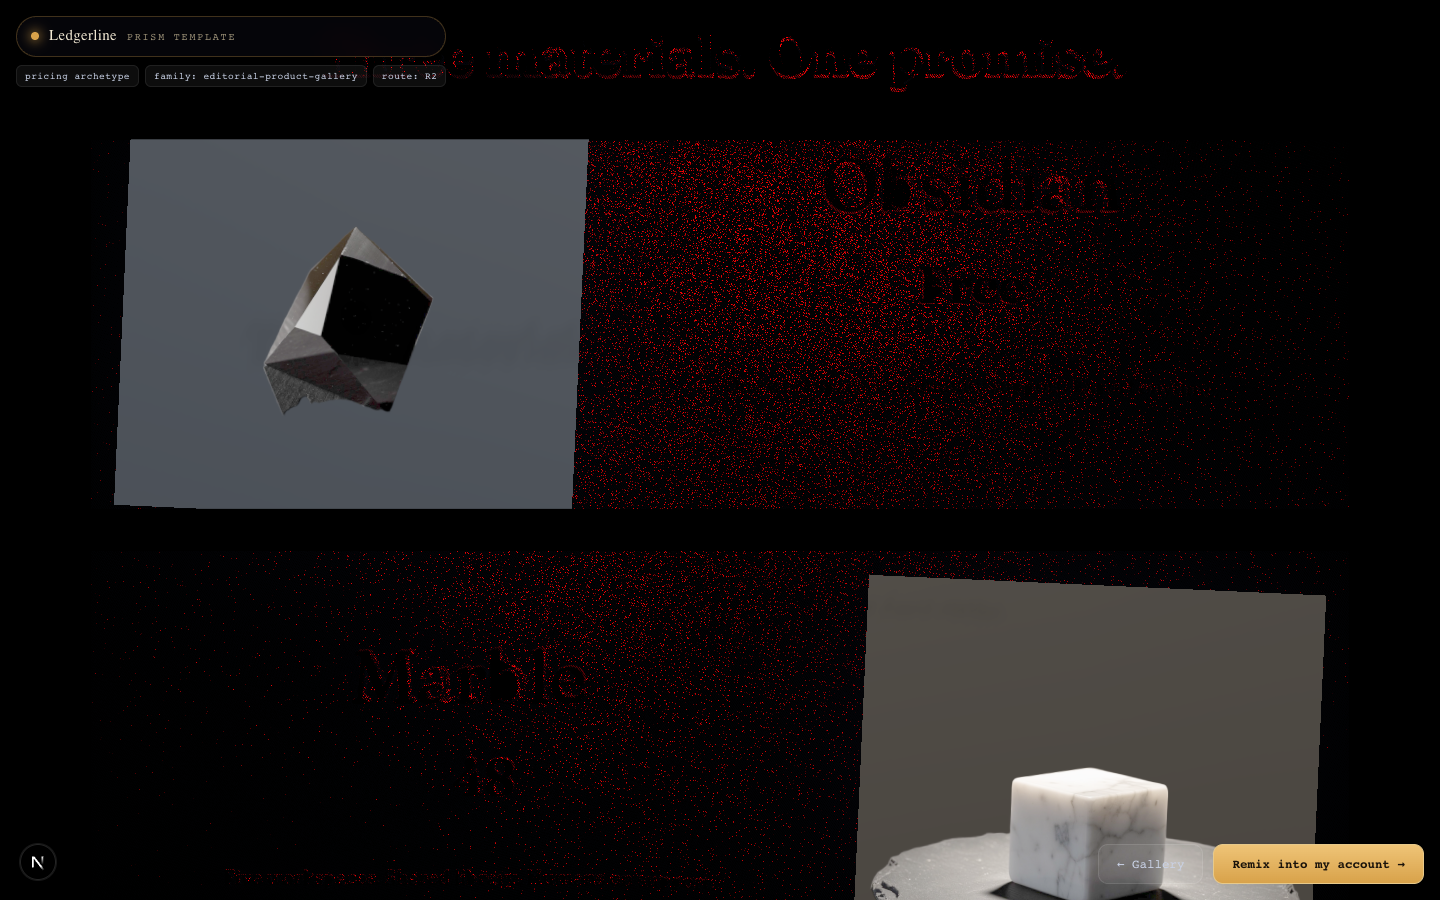
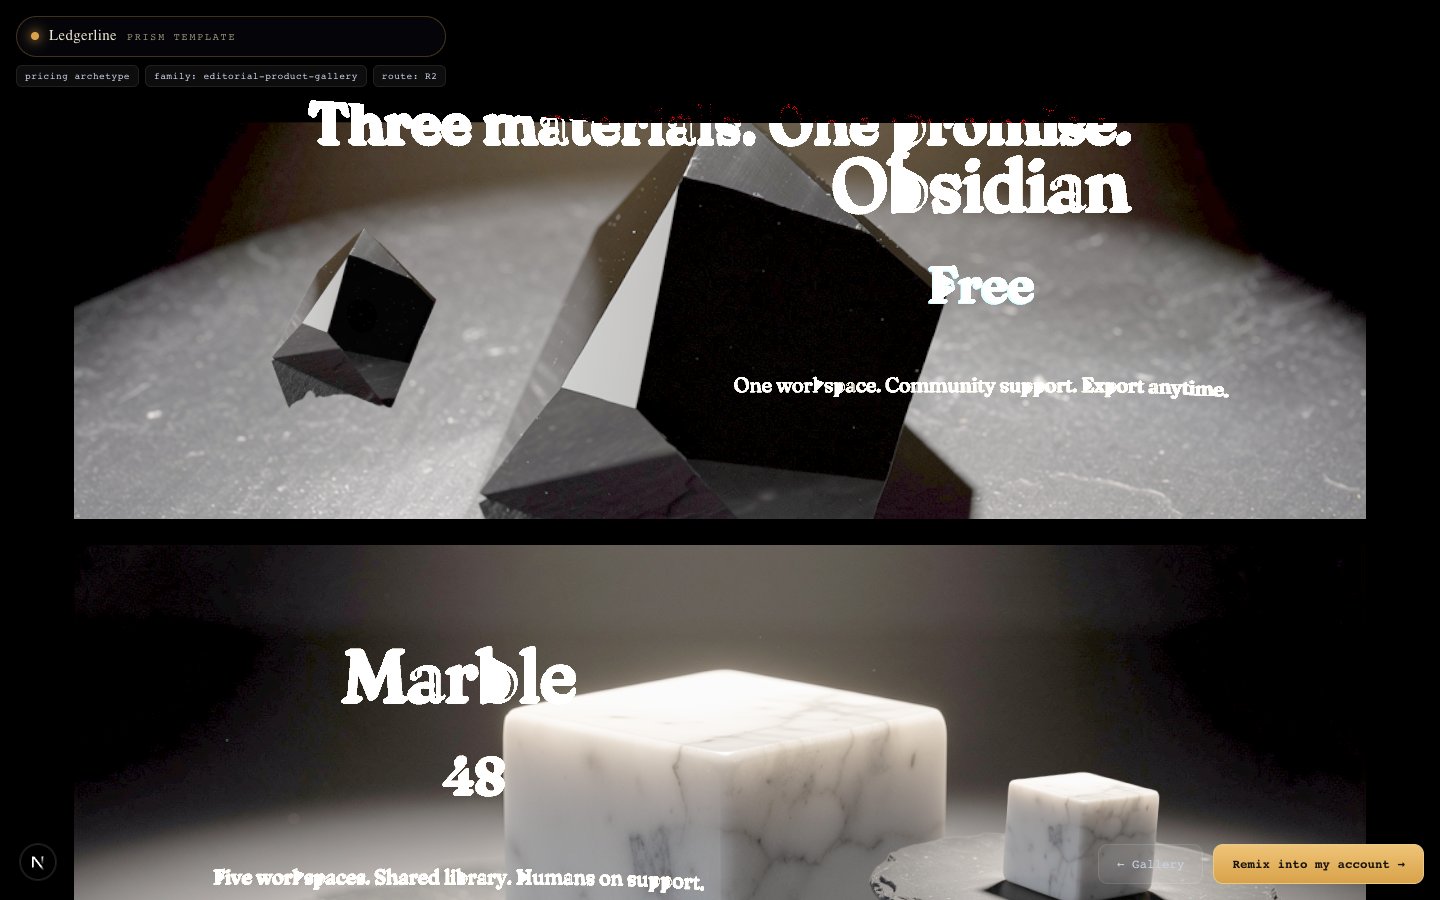
shell-wtpl: D7 ledgerline resolved — root-caused the red extruded-text dither (text crisp over a PHOTO, dithers over an emissive/dark MESH plane under AgX). Reworked each spread to a full-bleed material photograph (obsidian/marble/brass stills) with clean tier name/price/line over the dark-slate hal

diff --git a/kid-kode-landing/src/lib/templates/catalog/ledgerline.ts b/kid-kode-landing/src/lib/templates/catalog/ledgerline.ts
@@ -14,7 +14,7 @@
 // cutouts on graded stages), byteBudget=moderate, motion=ambient, source=photo R2.
 
 import type { GraphSource, PrismNode } from '@/lib/prism-graph/types';
-import { bind, imageNode, meshNode, templateHub, textNode } from '../catalog-helpers';
+import { bind, imageNode, templateHub, textNode } from '../catalog-helpers';
 
 const HUB = 'ledgerline';
 const A = '/prism-mock/templates/ledgerline';
@@ -70,42 +70,42 @@ const SPREADS: Spread[] = [
 ];
 
 function spreadNodes(s: Spread): PrismNode[] {
-  const objX = s.objLeft ? -3.7 : 3.7;
-  const txtX = s.objLeft ? 2.5 : -2.5;
+  const objLeft = s.objLeft;
+  const photoX = objLeft ? -3.6 : 3.6;
+  const txtX = objLeft ? 2.6 : -2.6;
   return [
-    // Full-bleed graded "page" behind the spread. ConductorRuntime applies no
-    // hub lighting, so a self-lit emissive tint makes the page visible (a subtle
-    // ground the object + type sit on) without over-lighting the type bevels.
-    meshNode(
+    // The spread's full-bleed environment PHOTOGRAPH (the family's ground): the
+    // generated material still (object on dark slate, warm gallery spotlight).
+    // Text sits over the dark-slate half - text over a photo renders crisp in
+    // ConductorRuntime, where text over an emissive mesh dithered red (DEV-6).
+    imageNode(
       {
-        id: `led-stage-${s.id}`,
+        id: `led-photo-${s.id}`,
         hub: HUB,
-        caption: `${s.name} spread page - a graded editorial ground.`,
+        caption: `${s.name} spread - full-bleed ${s.material} environment photograph.`,
         x: 0,
         y: s.y,
-        z: -1.5,
+        z: -1.2,
         w: 15,
-        h: 4.4,
+        h: 4.6,
+        bindings: [bind('parallax', 'pointer', { params: { strength: 0.12 } })],
       },
-      { kind: 'plane', params: { width: 15, height: 4.4 } },
-      // A subtle DARK graded ground (very low emissive so it reads as a tinted
-      // band, not pure black). Light-emissive type over it stays crisp - a bright
-      // emissive page made extruded text bevels bloom red under AgX (DEV-6).
-      { baseColor: s.stage, emissive: s.stage, emissiveIntensity: 0.3, metalness: 0.1, roughness: 0.8 },
+      `${A}/${s.material}.png`,
     ),
+    // The isolated material object, forward, floating over its own environment.
     imageNode(
       {
         id: `led-obj-${s.id}`,
         hub: HUB,
         caption: `${s.name} tier object - ${s.material} cutout, floats + parallax.`,
-        x: objX,
+        x: photoX,
         y: s.y,
-        z: 0.3,
-        w: 4.6,
-        h: 4.2,
+        z: 0.4,
+        w: 4.4,
+        h: 4,
         bindings: [
           bind('float', 'time', { params: { amplitude: 0.06, periodSec: 7 } }),
-          bind('parallax', 'pointer', { params: { strength: 0.35 } }),
+          bind('parallax', 'pointer', { params: { strength: 0.4 } }),
         ],
       },
       `${A}/${s.material}.cut.png`,
@@ -176,8 +176,8 @@ export const ledgerlineGraph: GraphSource = {
         hub: HUB,
         caption: 'Pricing masthead.',
         x: 0,
-        y: 3.9,
-        z: 0.5,
+        y: 3.2,
+        z: 0.6,
         w: 12,
         h: 0.9,
       },

diff --git a/kid-kode-landing/notes/spec-deviations-wtpl.md b/kid-kode-landing/notes/spec-deviations-wtpl.md
@@ -90,3 +90,16 @@ detached shadow, garnish swarm at varied depth/blur), just assembled from
 graph nodes instead of one composite primitive. The primitive + the
 composite.json remain committed for the celestia baked path and a future
 WebGPU-map-rebuild fix.
+
+## DEV-6 addendum — Ledgerline resolved via photographic grounds (not mesh stages)
+
+The red extruded-text dither on Ledgerline was root-caused in D7: extruded text
+renders CRISP over a photographic plane but DITHERS red over an emissive/dark
+MESH plane under the runtime's AgX path (every other template grounds its text
+on a real photo; Ledgerline was the only one grounding on mesh stages). Fix:
+each spread now uses its generated material still (`<material>.png` - the object
+on dark slate under a warm gallery spotlight) as a FULL-BLEED environment
+photograph, with the tier name/price/line set over the dark-slate half. This is
+both the correct fix (text over photo = clean) AND more on-family
+(editorial-product-gallery IS "a full-bleed environment photograph"). Ledgerline
+now reads as a premium editorial pricing spread; the mesh-stage version is gone.
